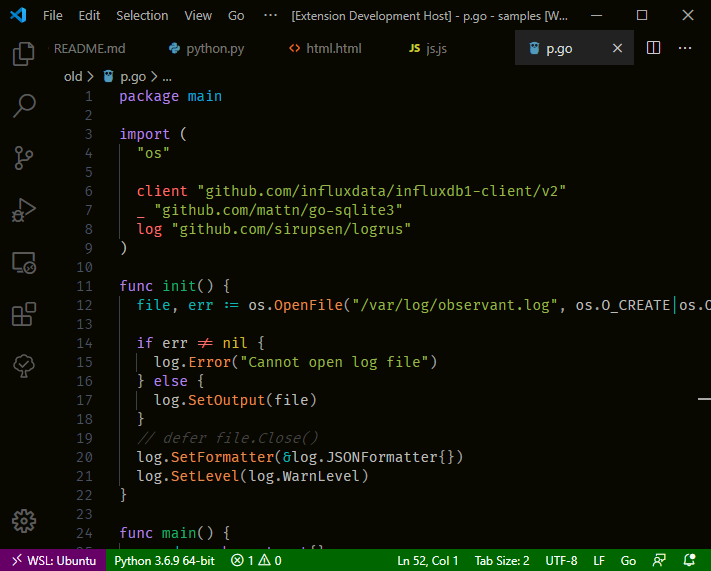
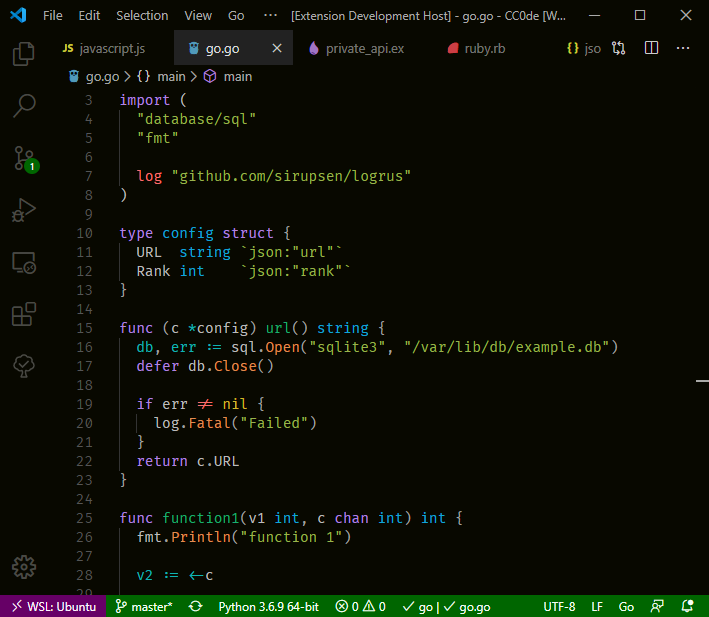
php

diff --git a/README.md b/README.md
@@ -4,7 +4,7 @@
 
 # Night Coder
 
-A dark theme based on [Darker One](https://github.com/a5hk/darker-one)
+A new dark theme fro Night Coders.
 
 ## Screenshots
 
@@ -12,17 +12,21 @@ A dark theme based on [Darker One](https://github.com/a5hk/darker-one)
 
 ![html screenshot](screenshot/html.png)
 
-### Elixir
+### Javascript
 
-![elixir screenshot](screenshot/elixir.png)
+![javascript screenshot](screenshot/javascript.png)
+
+### Python
+
+![python screenshot](screenshot/python.png)
 
 ### Go
 
 ![go screenshot](screenshot/go.png)
 
-### Javascript
+### Ruby
 
-![javascript screenshot](screenshot/javascript.png)
+![ruby screenshot](screenshot/ruby.png)
 
 <br>Modification indicators with `"workbench.editor.highlightModifiedTabs": true`.
 
@@ -39,6 +43,7 @@ A dark theme based on [Darker One](https://github.com/a5hk/darker-one)
 - Javascript
 - Json
 - Markdown
+- PHP
 - Python
 - Ruby
 

diff --git a/CHANGELOG.md b/CHANGELOG.md
@@ -1,5 +1,10 @@
 # Change Log
 
+## [0.4.2]
+
+- PHP support
+- Fixes
+
 ## [0.4.1]
 
 - Edited workbench colors
